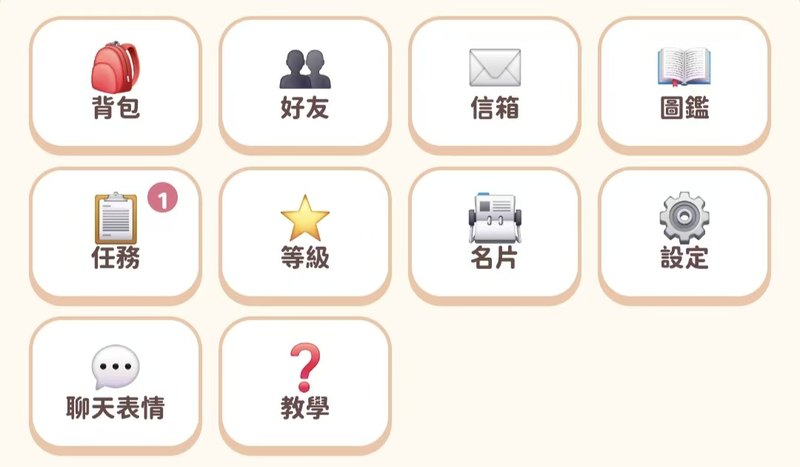
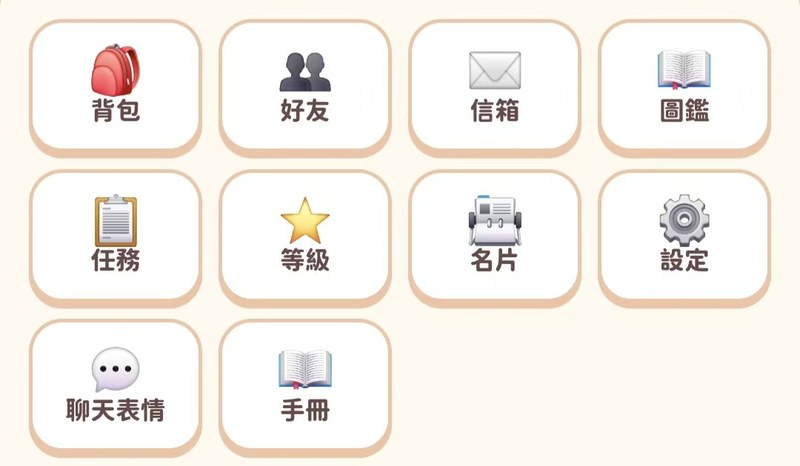
Add files via upload

diff --git a/js/manual.js b/js/manual.js
@@ -32,13 +32,15 @@ const MN = [
   { id: 'merchant', ic: '🧳', n: '旅行商人', c: '#fdeee4', e: '#f3c9ad',
     d: '米羅只在週五、六、日出現。今天的商品有稀有種子和商人專屬家具；「高價收購」每天收一種東西，價格是原價的 1.6 倍，有每日上限。',
     shots: [{ img: 'merchant', marks: [{ x: 58, y: 65, t: '商人攤位' }, { x: 79, y: 66, t: '米羅：面向他或攤位按動作，看今天賣什麼、收什麼' }] }] },
-  { id: '工具有鋤頭、水壺、釣竿、捕蟲網、鎬子、庭院佈置。快捷列有 1～6 號格、分三組，換法在背包裡。鎬子可敲礦石（Lv.4 解鎖山洞）；「肥料」提升作物品質（銀星、金星），特定作物能雜交出新品種；庭院佈置能在農場擺裝飾（Lv.2 解鎖）。',
+  { id: 'tools', ic: '🧰', n: '工具與快捷列', c: '#e4f1fb', e: '#b9dcf2',
+    d: '工具有鋤頭、水壺、釣竿、捕蟲網、鎬子、庭院佈置。快捷列有 1～6 號格、分三組，換法在背包裡。鎬子可敲礦石（Lv.4 解鎖山洞）；「肥料」提升作物品質（銀星、金星），特定作物能雜交出新品種；庭院佈置能在農場擺裝飾（Lv.2 解鎖）。',
     shots: [{ img: 'bag', marks: [{ x: 74, y: 17, t: '快捷列分成第 1、2、3 組，點這裡切換' }, { x: 96, y: 24, t: '換快捷列的方法：先點下面的工具或種子，再點上面的格子放進去' }, { x: 96, y: 33, t: '快捷列的 1～6 號格，就是遊戲畫面下方那一排' }, { x: 96, y: 49, t: '工具：鋤頭、水壺、釣竿、捕蟲網、鎬子、庭院佈置' }, { x: 96, y: 80, t: '種子：下面有持有數量和成熟時間' }] },
     { img: 'tools', marks: [{ x: 15, y: 46, t: '選到的工具有粉紅框，這是 1 號格的鋤頭' }, { x: 75, y: 46, t: '種子也能放進快捷列，右下角是持有數量' }, { x: 88, y: 46, t: '「組 1/3」：點它切換快捷列的組別' }, { x: 27, y: 17, t: '野外的蟲（瓢蟲），用捕蟲網抓，抓到會記進圖鑑' }] }] },
-  { id: '手機上點畫面下方的「選單」，就會跳出這一排按鈕：背包、好友、信箱、圖鑑、任務、等級、名片、設定、聊天表情、手冊。電腦版放在畫面右邊，可以收起來。可以拜訪好友的家，也能在他的餐桌上吃東西。',
-    shots: [{ img: 'dock', marks: [{ x: 6.5, y: 7.1, t: '背包' }, { x: 30.1, y: 7.1, t: '好友：拜訪好友的家，也能在他的餐桌上吃東西' }, { x: 53.9, y: 7.1, t: '信箱：寄、收明信片（寄 1～10 金幣）' }, { x: 77.5, y: 7.1, t: '圖鑑：魚和蟲' }, { x: 6.5, y: 39.7, t: '任務（右上角的數字是通知）' }, { x: 30.1, y: 39.7, t: '等級與解鎖' }, { x: 53.9, y: 39.7, t: '名片' }, { x: 77.5, y: 39.7, t: '設定' }, { x: 6.5, y: 71.4, t: '聊天表情' }, { x: 30.1, y: 71.4, t: '手冊（這張截圖是舊版，那時叫教學）' }] }] },
-  { id: 'plaza', ic: '⛲', n: '廣場與升級', c: '#fbe8f0', e: '#f2bfd2',
-    d: '農場右邊的大門通往廣場，能聊天、釣魚、交朋友。玩家等級靠每日任務和每週委託升級，技能等級上限是玩家等級＋2，詳情看「等級與解鎖」。',
+  { id: 'dock', ic: '📱', n: '選單與好友', c: '#f3ecdc', e: '#e0d2b0',
+    d: '手機上點畫面下方的「選單」，就會跳出這一排按鈕：背包、好友、信箱、圖鑑、任務、等級、名片、設定、聊天表情、手冊。電腦版放在畫面右邊，可以收起來。可以拜訪好友的家，也能在他的餐桌上吃東西。',
+    shots: [{ img: 'dock', marks: [{ x: 7, y: 8.3, t: '背包' }, { x: 30.7, y: 8.3, t: '好友：拜訪好友的家，也能在他的餐桌上吃東西' }, { x: 54.3, y: 8.3, t: '信箱：寄、收明信片（寄 1～10 金幣）' }, { x: 78, y: 8.3, t: '圖鑑：魚和蟲' }, { x: 7, y: 40.5, t: '任務（有新通知時，右上角會出現數字）' }, { x: 30.7, y: 40.5, t: '等級與解鎖' }, { x: 54.3, y: 40.5, t: '名片' }, { x: 78, y: 40.5, t: '設定' }, { x: 7, y: 72.7, t: '聊天表情' }, { x: 30.7, y: 72.7, t: '手冊：就是你現在看的這一本' }] }] },
+  { id: 'plaza', ic: '⛲', n: '廣場', c: '#fbe8f0', e: '#f2bfd2',
+    d: '農場右邊的大門通往廣場，能聊天、釣魚、交朋友。',
     shots: [{ img: 'plaza', marks: [{ x: 50, y: 63, t: '廣場中央的噴水池' }, { x: 50, y: 7, t: '紫色水晶球帳篷' }, { x: 6, y: 39, t: '萬聖節活動的裝飾' }, { x: 92, y: 98, t: '聊天按鈕，跟廣場上的人說話' }] }] },
 ];
 const mnEl = $('mnm'), mnCard = $('mncard');

diff --git a/js/tutorial.js b/js/tutorial.js
@@ -33,7 +33,7 @@ const TUT = [
   { t: '動物牧場', d: 'Lv.2 解鎖動物牧場：走進農場上方的穀倉，能看到動物在裡面走動；飼料槽餵乾草、收成籃收蛋奶毛。買動物和乾草要到雷克斯小村的牧場小屋找小茉（養雞，牛 Lv.3、羊 Lv.5）。', ev: null },
   { t: '採集、商人與圖鑑', d: '野外有可以採集的東西。旅行商人只在週五、六、日出現，會賣稀有東西。釣到的魚和抓到的蟲會記進圖鑑，魚還會記錄最大尺寸。', ev: null },
   { t: '快捷列與好友', d: '右上角的快捷列（打橫時在「選單」裡）可以隨時開背包、好友、信箱（寄明信片給好友，1～10 金幣）、圖鑑、等級。可以去好友家拜訪，也能在他的餐桌上吃東西。', ev: null },
-  { t: '廣場與升級', d: '農場右邊的大門通往廣場，能聊天、釣魚、交朋友。玩家等級靠每日任務和每週委託升級，技能等級的上限是玩家等級＋2，詳情看「等級與解鎖」。想重看教學，點「❓教學」。', ev: null }
+  { t: '廣場', d: '農場右邊的大門通往廣場，能聊天、釣魚、交朋友。想重看教學，點「❓教學」。', ev: null }
 ];
 const tutEl = $('tut');
 let tutI = -1, tutMoves = 0;
